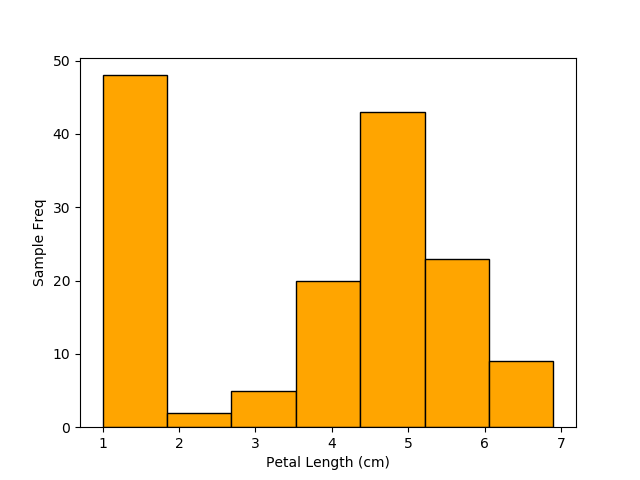
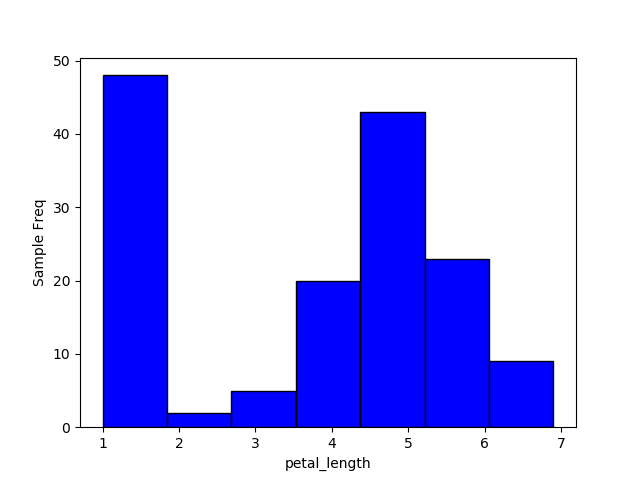
muliple updates & changes to code & repository

Changed region(s): [[0.1562, 0.1562, 0.875, 0.9062], [0.4062, 0.9375, 0.625, 1.0]]

diff --git a/Project-Iris/analysis.py b/Project-Iris/analysis.py
@@ -5,59 +5,79 @@
 import pandas as pd                                                             # Import pandas as pd 
 import matplotlib.pyplot as plt                                                 # Import matplotliv.pyplot as plt
 
-head_row = ["sepal_length", "sepal_width", "petal_length",                      # Header row for dataset
-            "petal_width", "class"]
+head_row = ["Sepal Length", "Sepal Width", "Petal Length",                      # Header row for dataset
+            "Petal Width", "Class"]
 
 df = pd.read_csv("datasets/bezdekIris.data", names=head_row)                    # Use pandas to read csv & include header row.
-                
+                                                                                # note: dataset bedekIris.data used in Project.
+# Summary of Variables
+               
 with open('outputs/summary.txt', 'w') as f:                                     # Create a writeable text file named summary.txt
     print("DATASET VARIABLES SUMMARIES:\n\n", df.describe(), file=f)            # Use pandas df.describe() to print summary of each variable to summary text file
 
-# Histograms
+# Histograms of Variables
+                                                                           
+colour = ['r', 'g', 'b', 'c']                                                   # List of colours to be used for plotting different histograms.
+n = 0                                                                           # Initialize for loop with n = 0
+var = head_row[n]  
+                                                                                 
+for n in range(0, 4):                                                            
+                                                                                # For loop to iternate through variables in head_row, 4No. variables (0 to 3)
+    plt.figure(n)                                                               # plotting a histogram for each variable, figures(0 - 3)
+    plt.hist(df[var], bins=7, facecolor=colour[n], ec="black")                  # setting number of bins, applying different colours & a black edge colour to bins
+    plt.xlabel(var)                                                             # label x-axis (variable name)
+    plt.ylabel("Sample Freq")                                                   # label y-axis (sample frequency)
+    plt.title("Histogram of " + var)                                            # add titles                                                                             
+    plt.savefig(fname="outputs/" + var + " histogram")                          # saving each individual plots in the outputs folder 
+    n = n + 1                                                                   
 
-plt.figure(1)
-plt.hist(df["sepal_length"], bins=7, facecolor="blue", ec="black")
-plt.xlabel("Sepal Length (cm)")
-plt.ylabel("Sample Freq")
-plt.savefig("outputs/sepal_length_histogram")
+# Scatter Plots - Pairs of Variables 
+# all pairs of variables on individual subplots plotted
+# on a 1 single figure
 
-plt.figure(2)
-plt.hist(df["sepal_width"], bins=7, facecolor="green", ec="black")
-plt.xlabel("Sepal Width (cm)")
-plt.ylabel("Sample Freq")
-plt.savefig("outputs/sepal_width_histogram")
+sl = df["Sepal Length"]                                                         # individualizing each of the dataset's columns
+sw = df["Sepal Width"]                                                          # for ease of reading & writing code
+pl = df["Petal Length"]
+pw = df["Petal Width"]
+                                                                                    
+f, ((ax1, ax2), (ax3, ax4), (ax5, ax6)) = plt.subplots(3, 2)                    # using subplots to provide 6no. plots on a single figure f (3 rows x 2 columns)
+f.suptitle("Scatter Plots - Pairs of Variables")                                # title for figure
 
-plt.figure(3)
-plt.hist(df["petal_length"], bins=7, facecolor="orange", ec="black")
-plt.xlabel("Petal Length (cm)")
-plt.ylabel("Sample Freq")
-plt.savefig("outputs/petal_length_histogram")
+ax1.scatter(sl, sw, marker='.', c='b', label="SL v SW")                         # axes 1 - sepal length (SL) vs sepal width (SW), adjusting marker & colour, adding label
+ax1.legend(fontsize="x-small", markerscale=2, edgecolor="black")                # legend for axes 1, adjusting textsize, marker scale & legend box colour.
 
-plt.figure(4)
-plt.hist(df["petal_width"], bins=7, facecolor="red", ec="black")
-plt.xlabel("Petal Width (cm)")
-plt.ylabel("Sample Freq")
-plt.savefig("outputs/petal_width_histogram")
+ax2.scatter(sl, pl, marker='.', c='g', label="SL v PL")                         # axes 1 - sepal length (SL) vs petal length (PL)
+ax2.legend(fontsize="x-small", markerscale=2, edgecolor="black")                # legend for axes 2
 
-# plotting of histograms
-#n_bins = 5
+ax3.scatter(sl, pw, marker='.', c='m', label="SL v PW")                         # axes 1 - sepal length (SL) vs petal width (PW)
+ax3.legend(fontsize="x-small", markerscale=2, edgecolor="black")                # legend for axes 3
 
-#fig, ((ax1, ax2), (ax3, ax4)) = plt.subplots(2, 2)
-#fig.suptitle("Histogram of Variables")
+ax4.scatter(sw, pl, marker='.', c='c', label="SW v PL")                         # axes 1 - sepal width (SW) vs petal length (PL)
+ax4.legend(fontsize="x-small", markerscale=2, edgecolor="black")                # legend for axes 4
 
-#ax1.hist(df["sepal_length"], bins=n_bins, facecolor='blue', ec="black")
-#ax1.set(xlabel="Sepal Length(cm)", ylabel="No. Samples")
+ax5.scatter(sw, pw, marker='.', c='r', label="SW v PW")                         # axes 1 - sepal width (SW) vs petal width (PW)
+ax5.legend(fontsize="x-small", markerscale=2, edgecolor="black")                # legend for axes 5
 
-#ax2.hist(df["sepal_width"], bins=n_bins, facecolor='green', ec="black")
-#ax2.set(xlabel="Sepal Width(cm)")
+ax6.scatter(pl, pw, marker='.', c='y', label="PL v PW")                         # axes 6 - petal length (PL) vs petal width (PW)
+ax6.legend(fontsize="x-small", markerscale=2, edgecolor="black")                # legend for axes 6
 
-#ax3.hist(df["petal_length"], bins=n_bins, facecolor='orange', ec="black")
-#ax3.set(xlabel="Petal Length(cm)", ylabel="No. Samples")
+plt.savefig(fname="outputs/Scatter Plots - Pairs of Variables")                 # saving plot in the outputs folder 
 
-#ax4.hist(df["petal_width"], bins=n_bins, facecolor='red', ec="black")
-#ax4.set(xlabel="Petal Width(cm)")
+# Combined Scatter Plots - Pairs of Variables
+# all pairs of vaiables combined on a single scatter plot 
+        
+plt.figure(5)                                                                   # combination of above plots on a single plot or axes
+plt.scatter(sl, sw, marker='.', c='b', label="SL v SW") 
+plt.scatter(sl, pl, marker='.', c='g', label="SL v PL")
+plt.scatter(sl, pw, marker='.', c='m', label="SL v PW")  
+plt.scatter(sw, pl, marker='.', c='c', label="SW v PL")
+plt.scatter(sw, pw, marker='.', c='r', label="SW v PW") 
+plt.scatter(pl, pw, marker='.', c='y', label="PL v PW")
+plt.legend(fontsize="x-small", markerscale=2, edgecolor="black")                # adjusting legend properties
+plt.title("Combined Scatter Plots - Pairs of Variables")                        # adding title to plot
 
-#plt.tight_layout()
-#plt.savefig("histograms.pdf",bbox_inches="tight")
+plt.savefig(fname="outputs/Combined Scatter Plots - Pairs of Variables")        # saving plot in the outputs folder 
+
+plt.show()                                                                      # plot to screen all plots
 
 

diff --git a/Project-Iris/scripts/hist_test.py b/Project-Iris/scripts/hist_test.py
@@ -1,0 +1,94 @@
+# plotting histograms using subplots
+
+import pandas as pd                                                             
+import matplotlib.pyplot as plt                                                 
+
+head_row = ["sepal_length", "sepal_width", "petal_length",                     
+            "petal_width", "class"]
+
+df = pd.read_csv("../datasets/bezdekIris.data", names=head_row)
+
+n_bins = 7
+
+fig, ((ax1, ax2), (ax3, ax4)) = plt.subplots(2, 2)
+fig.suptitle("Histogram of Variables")
+
+ax1.hist(df["sepal_length"], bins=n_bins, facecolor='blue', ec="black")
+ax1.set(xlabel="Sepal Length(cm)", ylabel="No. Samples")
+
+ax2.hist(df["sepal_width"], bins=n_bins, facecolor='green', ec="black")
+ax2.set(xlabel="Sepal Width(cm)")
+
+ax3.hist(df["petal_length"], bins=n_bins, facecolor='orange', ec="black")
+ax3.set(xlabel="Petal Length(cm)", ylabel="No. Samples")
+
+ax4.hist(df["petal_width"], bins=n_bins, facecolor='red', ec="black")
+ax4.set(xlabel="Petal Width(cm)")
+
+plt.tight_layout()
+#plt.show()
+#plt.savefig("add_outputs/histograms_combined",bbox_inches="tight")
+
+# dataframes by flower class
+
+seto = df.loc[df["class"] == "Iris-setosa"]
+vir = df.loc[df["class"] == "Iris-virginica"]
+ver = df.loc[df["class"] == "Iris-versicolor"]
+
+# histograms sepal length
+
+plt.figure(2)
+plt.hist(seto["sepal_length"], bins=7, facecolor='b', ec="black", alpha=0.3, label="Setosa")
+plt.hist(vir["sepal_length"], bins=7, facecolor='g', ec="black", alpha=0.3, label="Virginica")
+plt.hist(ver["sepal_length"], bins=7, facecolor='r', ec="black", alpha=0.3, label="Versicolor")
+plt.xlabel("Sepal Length")
+plt.legend(prop={'size': 10})
+#plt.show()
+#plt.savefig("add_outputs/histogram_by_flower_sepal_length")
+
+# histograms sepal width
+
+plt.figure(3)
+plt.hist(seto["sepal_width"], bins=7, facecolor='b', ec="black", alpha=0.3, label="Setosa")
+plt.hist(vir["sepal_width"], bins=7, facecolor='g', ec="black", alpha=0.3, label="Virginica")
+plt.hist(ver["sepal_width"], bins=7, facecolor='r', ec="black", alpha=0.3, label="Versicolor")
+plt.xlabel("Sepal Width")
+plt.legend(prop={'size': 10})
+#plt.show()
+#plt.savefig("add_outputs/histogram_by_flower_sepal_width")
+
+# histograms petal length
+
+plt.figure(4)
+plt.hist(seto["petal_length"], bins=7, facecolor='b', ec="black", alpha=0.3, label="Setosa")
+plt.hist(vir["petal_length"], bins=7, facecolor='g', ec="black", alpha=0.3, label="Virginica")
+plt.hist(ver["petal_length"], bins=7, facecolor='r', ec="black", alpha=0.3, label="Versicolor")
+plt.xlabel("Petal Length")
+plt.legend(prop={'size': 10})
+#plt.show()
+#plt.savefig("add_outputs/histogram_by_flower_petal_length")
+
+# histograms petal width
+
+plt.figure(5)
+plt.hist(seto["petal_width"], bins=7, facecolor='b', ec="black", alpha=0.3, label="Setosa")
+plt.hist(vir["petal_width"], bins=7, facecolor='g', ec="black", alpha=0.3, label="Virginica")
+plt.hist(ver["petal_width"], bins=7, facecolor='r', ec="black", alpha=0.3, label="Versicolor")
+plt.xlabel("Petal Width")
+plt.legend(prop={'size': 10})
+plt.show()
+#plt.savefig("add_outputs/histogram_by_flower_petal_width")
+
+colour = ['r', 'g', 'b', 'c']                                                   
+n = 0                                                                           
+var = head_row[n]  
+                                                                                 
+for n in range(0, 4):                                                            
+                                                                                
+    plt.figure(n)                                                               
+    plt.hist(df[var], bins=7, facecolor=colour[n], ec="black")                  
+    plt.xlabel(var)                                                             
+    plt.ylabel("Sample Freq")                                                   
+    plt.title("Histogram of " + var)                                                                                                                         
+    plt.savefig(fname="outputs/" + var + " histogram")                           
+    n = n + 1   

diff --git a/Project-Iris/scripts/scatter_test.py b/Project-Iris/scripts/scatter_test.py
@@ -1,0 +1,86 @@
+import pandas as pd                                                             
+import matplotlib.pyplot as plt                                                 
+
+head_row = ["sepal_length", "sepal_width", "petal_length",                      
+            "petal_width", "class"]
+
+df = pd.read_csv("../datasets/bezdekIris.data", names=head_row) 
+
+# scatter plots all variables in different combinations
+
+sl = df["sepal_length"]
+sw = df["sepal_width"]
+pl = df["petal_length"]
+pw = df["petal_width"]
+        
+plt.figure(1)         
+plt.scatter(sl, sw, marker='.', c='b', label="SL v SW") 
+plt.scatter(sl, pl, marker='.', c='g', label="SL v PL")
+plt.scatter(sl, pw, marker='.', c='m', label="SL v PW")  
+plt.scatter(sw, pl, marker='.', c='c', label="SW v PL")
+plt.scatter(sw, pw, marker='.', c='r', label="SW v PW") 
+plt.scatter(pl, pw, marker='.', c='y', label="PL v PW")
+plt.legend(fontsize="x-small", markerscale=2, edgecolor="black")
+plt.title("Scatter Plots of Variables") 
+                                                                                    
+#plt.show()
+
+# dataframes by flower class
+
+seto = df.loc[df["class"] == "Iris-setosa"]
+vir = df.loc[df["class"] == "Iris-virginica"]
+ver = df.loc[df["class"] == "Iris-versicolor"]
+
+# scatter plots grouped by flower class
+
+plt.figure(2)
+plt.scatter(seto["sepal_length"], seto["sepal_width"], marker='o', c='b', alpha=0.3) 
+plt.scatter(seto["sepal_length"], seto["petal_length"], marker='o', c='g', alpha=0.3)
+plt.scatter(seto["sepal_length"], seto["petal_width"], marker='o', c='r', alpha=0.3)  
+plt.scatter(seto["petal_length"], seto["sepal_width"], marker='o', c='y', alpha=0.3)
+plt.scatter(seto["petal_length"], seto["petal_width"], marker='o', c='c', alpha=0.3) 
+plt.scatter(seto["sepal_width"], seto["petal_width"], marker='o', c='m', alpha=0.3) 
+
+plt.scatter(vir["sepal_length"], vir["sepal_width"], marker='.', c='b') 
+plt.scatter(vir["sepal_length"], vir["petal_length"], marker='.', c='g')
+plt.scatter(vir["sepal_length"], vir["petal_width"], marker='.', c='r')  
+plt.scatter(vir["petal_length"], vir["sepal_width"], marker='.', c='y')
+plt.scatter(vir["petal_length"], vir["petal_width"], marker='.', c='c') 
+plt.scatter(vir["sepal_width"], vir["petal_width"], marker='.', c='m')
+
+plt.scatter(ver["sepal_length"], ver["sepal_width"], marker='+', c='b', alpha=0.6) 
+plt.scatter(ver["sepal_length"], ver["petal_length"], marker='+', c='g', alpha=0.6)
+plt.scatter(ver["sepal_length"], ver["petal_width"], marker='+', c='r', alpha=0.6)  
+plt.scatter(ver["petal_length"], ver["sepal_width"], marker='+', c='y', alpha=0.6)
+plt.scatter(ver["petal_length"], ver["petal_width"], marker='+', c='c', alpha=0.6) 
+plt.scatter(ver["sepal_width"], ver["petal_width"], marker='+', c='m', alpha=0.6)
+
+plt.legend
+
+#plt.show()
+
+# scatter plots subplots
+
+f, ((ax1, ax2), (ax3, ax4), (ax5, ax6)) = plt.subplots(3, 2)
+f.suptitle("Scatter Plots of Variables")
+
+ax1.scatter(sl, sw, marker='.', c='b', label="SL v SW")
+ax1.legend(fontsize="x-small", markerscale=2, edgecolor="black")
+
+ax2.scatter(sl, pl, marker='.', c='g', label="SL v PL")
+ax2.legend(fontsize="x-small", markerscale=2, edgecolor="black")
+
+ax3.scatter(sl, pw, marker='.', c='m', label="SL v PW")
+ax3.legend(fontsize="x-small", markerscale=2, edgecolor="black")
+
+ax4.scatter(sw, pl, marker='.', c='c', label="SW v PL")
+ax4.legend(fontsize="x-small", markerscale=2, edgecolor="black")
+
+ax5.scatter(sw, pw, marker='.', c='r', label="SW v PW")
+ax5.legend(fontsize="x-small", markerscale=2, edgecolor="black")
+
+ax6.scatter(pl, pw, marker='.', c='y', label="PL v PW")
+ax6.legend(fontsize="x-small", markerscale=2, edgecolor="black")
+
+plt.show()
+

diff --git a/Project-Iris/README.md b/Project-Iris/README.md
@@ -66,7 +66,7 @@ On review of the README text file, it notes that the dataset contains some discr
 > The 38th sample: 4.9, 3.6, 1.4, 0.1, "Iris-setosa"
 > where the errors are in the second and third features.
 
-To review & identify the above discrepencies a simple script *review_data.py* has been written & included as part of this project.
+To review & identify the above discrepencies a simple script *review_data.py* has been written & included as part of this project, which can be found in the script folder in this reposirory. 
 
 The script was used to read & compare both *bezdekIris.data* and *iris.data* datasets, identify the known discrepencies and to determine which dataset to use as part of this project.
 
@@ -96,7 +96,7 @@ df_1 - *bezdekIris.data* appears to contain the corrected sample values.
 
 - Further compare datasets, using pandas concatuate **concat()** function to fully combine df_1 & df_2, followed by the **drop_duplicates(keep=False)** function to remove all dublicate rows within the combined dataset.
 ```
-print(pd.concat([df_1,df_2]).drop_duplicates(keep=False))- [x]- [x]- [x]
+print(pd.concat([df_1,df_2]).drop_duplicates(keep=False))
 ```
 
 ![review_datasets_drop_dup](https://github.com/PaulSweeney89/P-S-Tasks/blob/master/Project-Iris/Images/Review%20Datasets%20-%20drop_duplicates.png)
@@ -109,11 +109,11 @@ Only index rows 34 & 37 remain, therefore there are no other discrepencies betwe
 
 As part of the project, the 3 main tasks of the program is:
 
-1.  - [x] output a summary of each variable to a single text file.
-2.  - [ ] saves a histogram of each variable to png files.
-3.  - [ ] outputs a scatter plot of each pair of variables.
+1.  output a summary of each variable to a single text file - [x] 
+2.  saves a histogram of each variable to png files         - [x] 
+3.  outputs a scatter plot of each pair of variables        - [ ] 
 
-1. **Summaries of Dataset Variables** 
+**1.    Summary of Dataset Variables** 
 
 - Import pandas & matplotlib python libraries to be used as part of the program & analysis of the Iris dataset.
 ```
@@ -148,7 +148,7 @@ with open('outputs/summary.txt', 'w') as f:
 >   75%        6.400000     3.300000      5.100000     1.800000
 >   max        7.900000     4.400000      6.900000     2.500000
 
-2. **Histograms of Variables**
+**2.    Histograms of Dataset Variables**
 
 
 
@@ -175,6 +175,8 @@ Note: Text added to images from Wiki Commons using GIMP - GNU Image Manipulation
 [Pandas Difference between Dataframes](https://kanoki.org/2019/07/04/pandas-difference-between-two-dataframes/)
 
 [Writing output to text file](https://stackoverflow.com/questions/7152762/how-to-redirect-print-output-to-a-file-using-python)
+
+[Real Python Matplotlib](https://realpython.com/python-matplotlib-guide/)
 
 
  

diff --git a/Project-Iris/scripts/README.md b/Project-Iris/scripts/README.md
@@ -1,0 +1,7 @@
+## Additional Scripts & Graph Outputs ##
+
+**additional scripts, test code & outputs produced during P&S Project 2020**
+
+- review_script.py - used as part of main project to review the downloaded datasets.
+- scatter_test.py - used for trying different code for plotting scatter plots.
+- hist_test.py - used for trying different code for plotting histogram plots.
